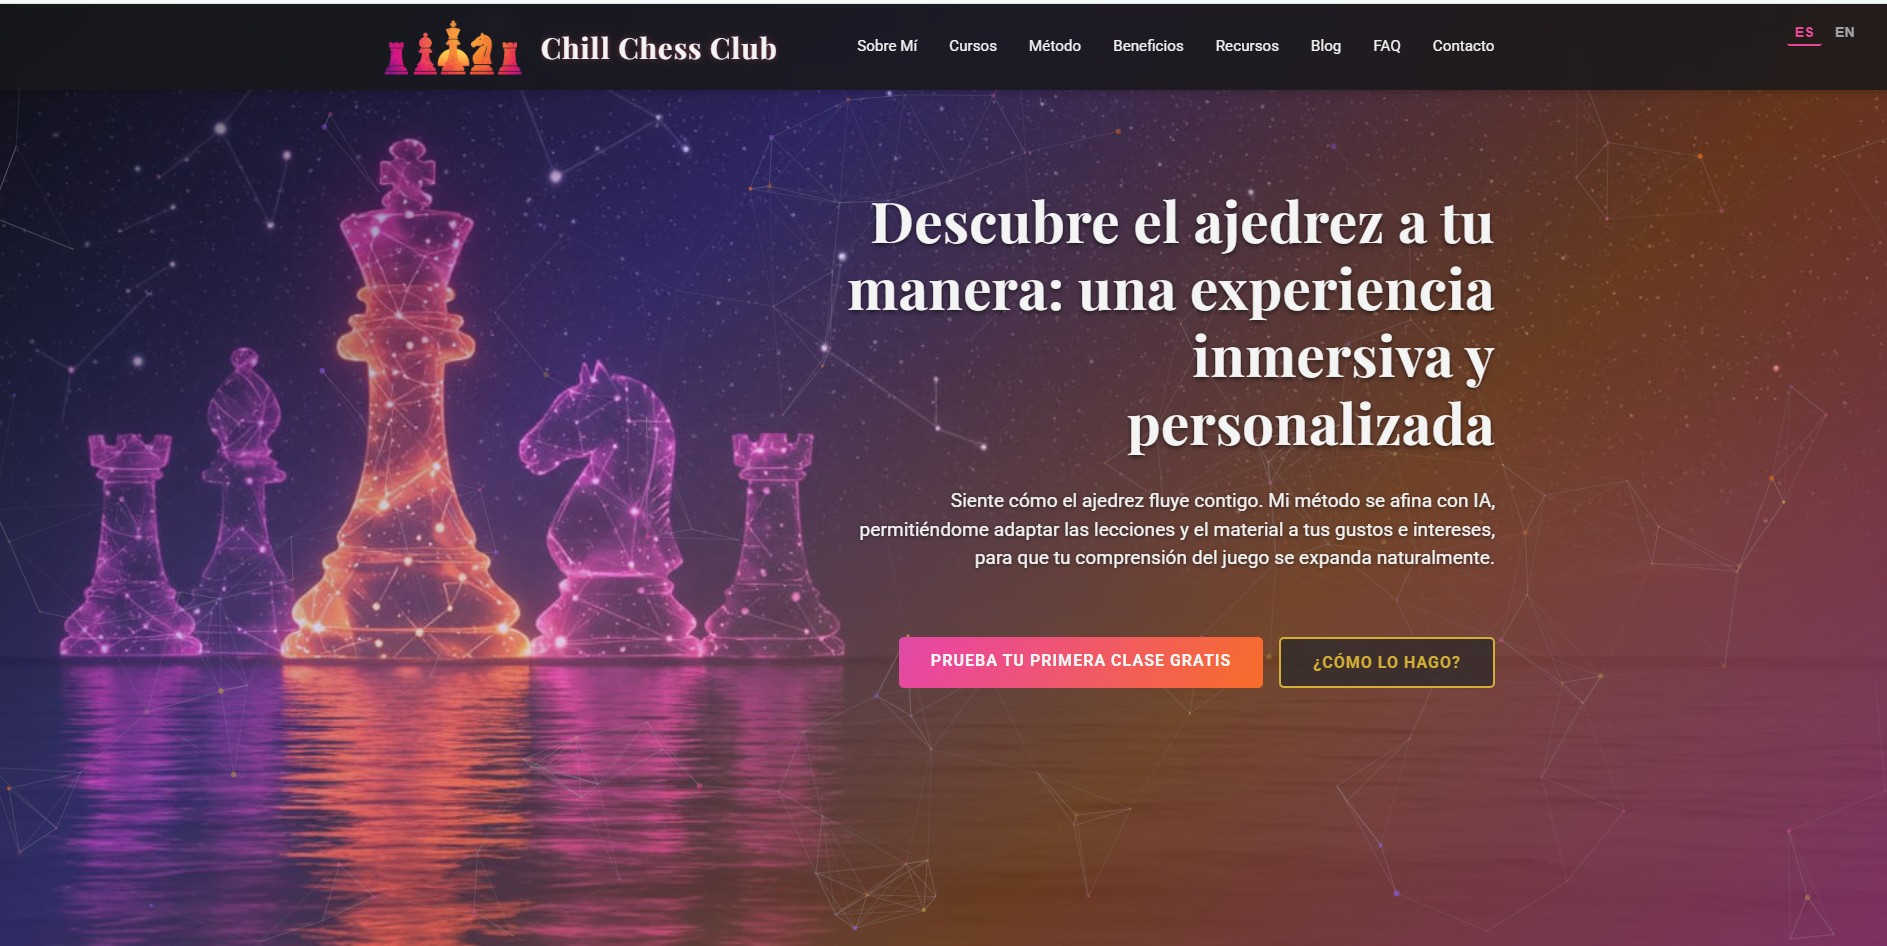
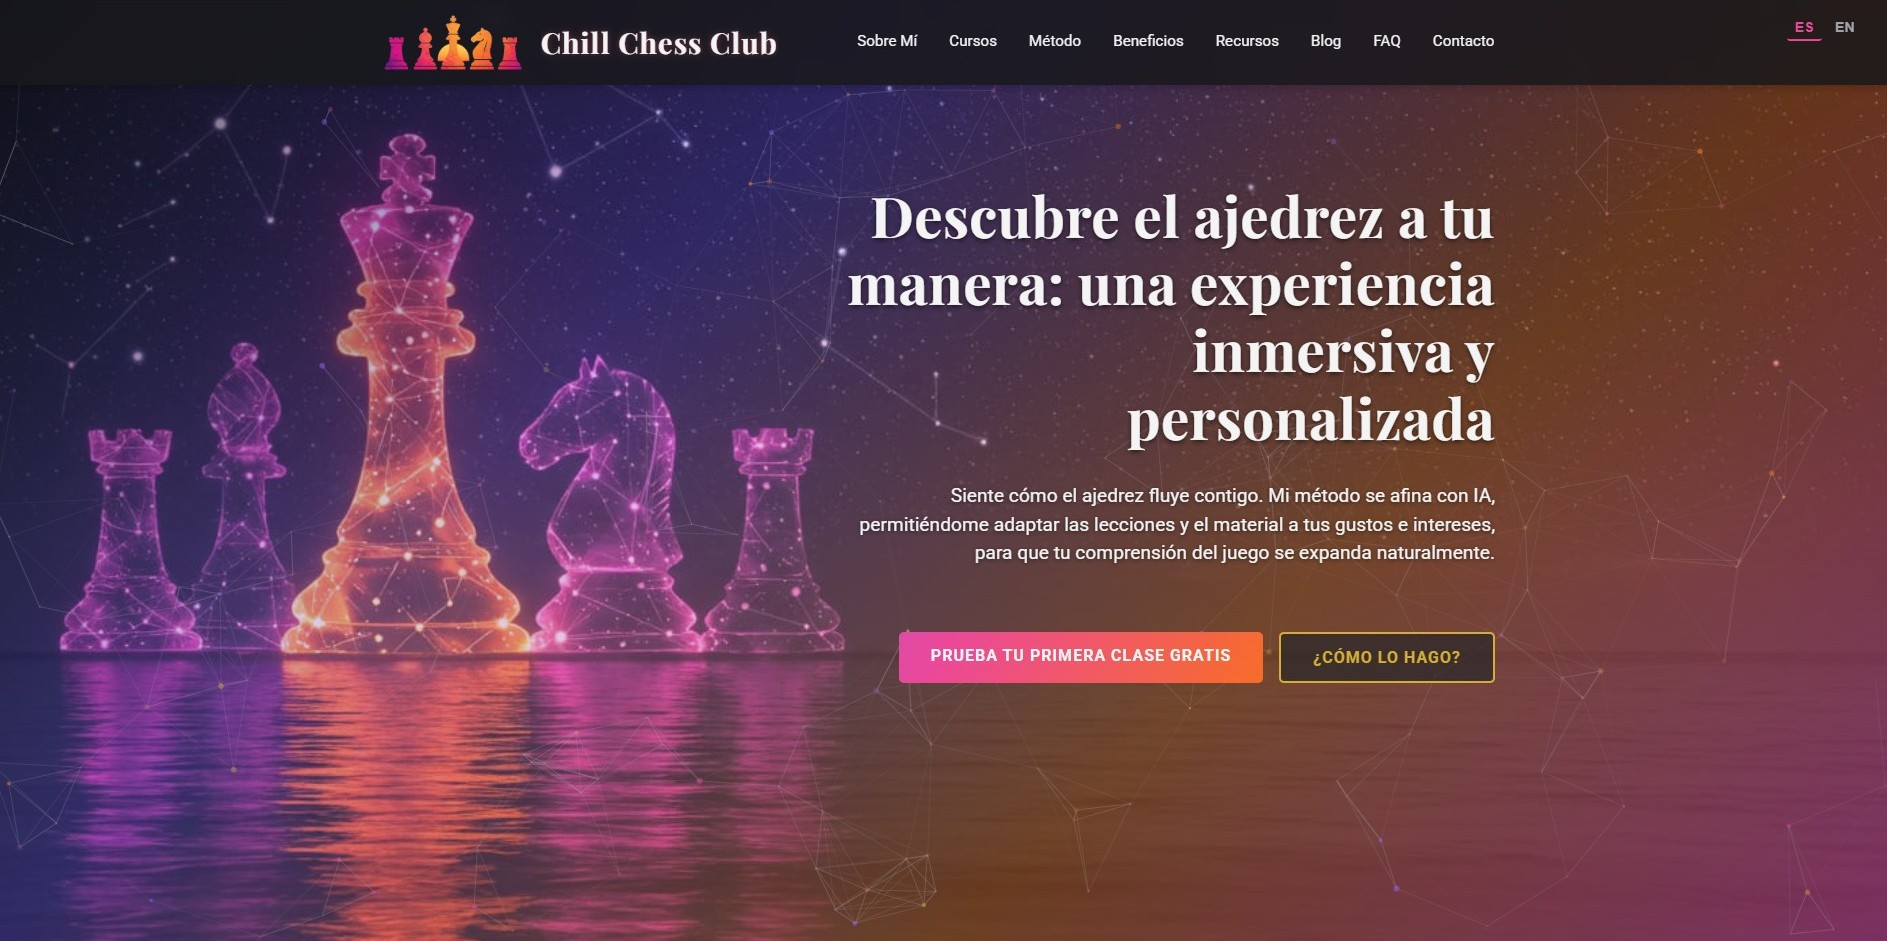
feat: Implementar menú hamburguesa responsivo para navegación móvil
Este commit introduce un menú de navegación adaptable para mejorar la experiencia en dispositivos móviles, solucionando problemas de espacio y legibilidad.

Cambios Implementados:

Menú Hamburguesa en Móvil:

Se ha añadido un botón de menú "hamburguesa" visible en pantallas pequeñas (hasta el breakpoint md).

Al tocar el botón, se despliega un panel con los enlaces de navegación principales ("Inicio", "Sobre Mí", "Proyectos", "Contacto") dispuestos en un formato 2x2 para fácil acceso.

Los enlaces de navegación tradicionales se ocultan en vistas móviles y permanecen visibles en tablets y escritorio.

Botón de Idioma:

El botón de cambio de idioma ("ENG"/"ESP") ahora permanece visible en la barra de navegación principal en todas las vistas, junto al logo o al menú hamburguesa en móviles.

Estructura HTML:

Se ha modificado el header en index.html para incluir la nueva estructura del botón hamburguesa y el panel del menú desplegable.

Estilos CSS:

Se han añadido estilos en style.css (y CSS en línea en index.html para la transición) para el botón hamburguesa, el panel desplegable, y para mostrar/ocultar los elementos de navegación según el tamaño de la pantalla.

Se ha implementado una transición suave para la aparición y desaparición del panel del menú móvil.

Lógica JavaScript (Próximo Paso):
[…]

diff --git a/index.html b/index.html
@@ -60,6 +60,18 @@
         body.language-set [data-lang-key] {
             visibility: visible;
         }
+
+        /* Para el panel del menú móvil (transición suave) */
+        #mobile-menu-panel {
+            max-height: 0;
+            overflow: hidden;
+            transition: max-height 0.3s ease-out, padding-top 0.3s ease-out, padding-bottom 0.3s ease-out;
+        }
+        #mobile-menu-panel.open {
+            max-height: 500px; /* Un valor suficientemente grande para el contenido */
+            padding-top: 1rem; /* py-4 */
+            padding-bottom: 1rem; /* py-4 */
+        }
     </style>
 </head>
 <body class="bg-dark text-light-DEFAULT font-sans"> 
@@ -69,17 +81,38 @@
         <header class="bg-dark-light shadow-md sticky top-0 z-50">
             <nav class="container mx-auto px-6 py-3 sm:py-4 flex justify-between items-center">
                 <a href="#" class="text-2xl font-bold text-primary hover:opacity-80 transition-opacity duration-200 font-headings">elsantin</a>
-                <div class="flex items-center space-x-3 sm:space-x-4">
-                    <a href="#home" class="text-sm sm:text-base text-light-dark hover:text-primary transition-colors duration-200" data-lang-key="nav_home">Home</a>
-                    <a href="#about-me" class="text-sm sm:text-base text-light-dark hover:text-primary transition-colors duration-200" data-lang-key="nav_about">About</a>
-                    <a href="#projects" class="text-sm sm:text-base text-light-dark hover:text-primary transition-colors duration-200" data-lang-key="nav_projects">Projects</a>
-                    <a href="#contact" class="text-sm sm:text-base text-light-dark hover:text-primary transition-colors duration-200" data-lang-key="nav_contact">Contact</a>
+                
+                <div class="flex items-center space-x-2 sm:space-x-3">
+                    <div class="hidden md:flex items-center space-x-3 sm:space-x-4">
+                        <a href="#home" class="text-sm sm:text-base text-light-dark hover:text-primary transition-colors duration-200" data-lang-key="nav_home">Home</a>
+                        <a href="#about-me" class="text-sm sm:text-base text-light-dark hover:text-primary transition-colors duration-200" data-lang-key="nav_about">About</a>
+                        <a href="#projects" class="text-sm sm:text-base text-light-dark hover:text-primary transition-colors duration-200" data-lang-key="nav_projects">Projects</a>
+                        <a href="#contact" class="text-sm sm:text-base text-light-dark hover:text-primary transition-colors duration-200" data-lang-key="nav_contact">Contact</a>
+                    </div>
+
                     <button id="language-switcher" 
                        class="text-sm sm:text-base text-light-dark hover:text-primary border border-light-dark hover:border-primary px-3 py-1 rounded-md transition-colors duration-200"
                        aria-label="Change language">
+                        ESP {/* Se actualizará con JS a ENG/ESP */}
+                    </button>
+
+                    <button id="mobile-menu-button" class="md:hidden text-light-dark hover:text-primary focus:outline-none p-2 -mr-2"> {/* Añadido padding y margen negativo para mejor área de toque */}
+                        <i id="mobile-menu-icon" class="fas fa-bars text-xl"></i> {/* Icono de hamburguesa */}
                     </button>
                 </div>
             </nav>
+
+            <div id="mobile-menu-panel" class="md:hidden bg-dark-light shadow-xl absolute top-full left-0 right-0 z-40"> 
+                {/* El padding se aplicará cuando esté abierto mediante JS/CSS para la transición */}
+                <div class="container mx-auto px-6"> {/* No necesita py-4 aquí, se manejará con la clase .open */}
+                    <div class="grid grid-cols-2 gap-x-4 gap-y-2 text-center"> {/* gap-y-2 para un poco de espacio vertical */}
+                        <a href="#home" class="mobile-nav-link" data-lang-key="nav_home">Home</a>
+                        <a href="#about-me" class="mobile-nav-link" data-lang-key="nav_about">About</a>
+                        <a href="#projects" class="mobile-nav-link" data-lang-key="nav_projects">Projects</a>
+                        <a href="#contact" class="mobile-nav-link" data-lang-key="nav_contact">Contact</a>
+                    </div>
+                </div>
+            </div>
         </header>
 
         <section id="home" class="text-light-DEFAULT"> 
@@ -231,7 +264,7 @@
                 <p class="mb-8 max-w-lg mx-auto text-light-dark" data-lang-key="contact_tagline">
                     If my approach resonates with you, or if you have a vision we could materialize together, this is the starting point.
                 </p>
-                <a href="mailto:santiago.narvaez.84@gmail.com" class="bg-secondary text-white hover:bg-gray-500 font-semibold py-3 px-8 rounded-lg text-lg transition duration-300 shadow-md hover:shadow-lg" data-lang-key="contact_button_email">
+                <a href="mailto:santiago.narvaez.84@gmail.com" class="contact-cta-button bg-secondary text-white font-semibold py-3 px-8 rounded-lg text-lg shadow-md" data-lang-key="contact_button_email">
                     Send Email
                 </a>
                 <div class="mt-10 flex justify-center space-x-6">
